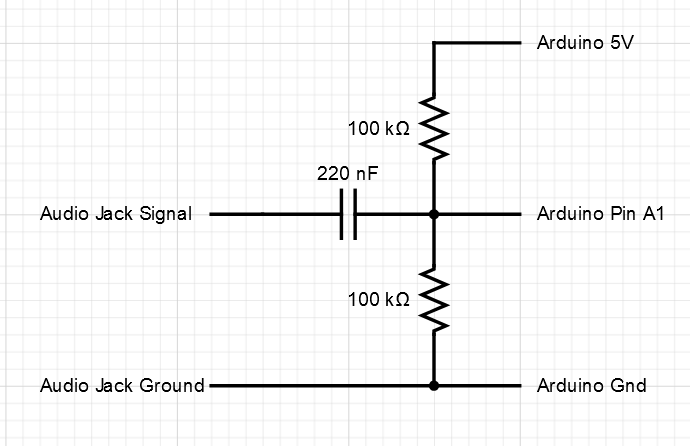
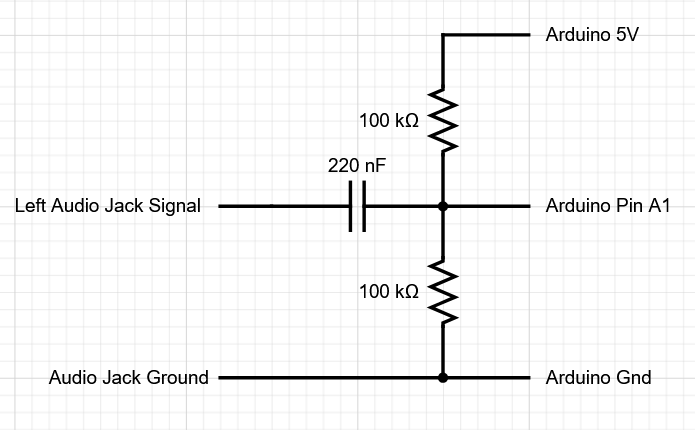
Fixing README with feedback

Changed region(s): [[0.0, 0.0605, 0.9739, 0.907], [0.487, 0.0605, 0.5174, 0.0907], [0.2435, 0.0605, 0.2739, 0.0907]]

diff --git a/README.md b/README.md
@@ -30,12 +30,15 @@ Put each of them together as shown in [this guide](https://github.com/ElementalA
 There are a few sections of wiring: Module Power, Module signals, and Input Reading.
 
 ## Input Reading
-
 This circuit is the most complex out of all of them. While the rest power or signal components where the circuitry is already made, this is a circuit you will have to build yourself. The circuit looks like this:
 
 ![Input circuit, check link below if it doesn't load](https://github.com/ElementalAlly/physical_visualizer/raw/main/docs/InputCircuit.png)
 
 If the image doesn't load, check [this link](https://forum.arduino.cc/t/how-to-read-data-from-audio-jack/458301/3), and exclude R1.
+
+This shifts the input from centering at 0 volts to centering at 2.5 volts, which allows the Arduino to read the entire input from its analog pins.
+
+We use the left audio signal because it's most commonly used as mono.
 
 The best way to get the audio signal and ground are to cut the audio extension cable in half and solder the two halves facing the same direction up on a prototype board, like the one seen on the end of the arduino hat I recommended. Then, solder the matching connections back together, and solder another two wires, one attaching to ground and the other attaching to the left signal. These can then be wired in the way of the diagram, and audio signal can be both received from a computer, and duplicated onto speakers with an audio jack.
 
@@ -53,15 +56,13 @@ Connect each limit switch's ground to the ground of the arduino, as shown in thi
 ![Limit switch ground is connected to the Arduino Ground](https://github.com/ElementalAlly/physical_visualizer/raw/main/docs/LimitSwitchPower.png)
 
 ## Module Signals
-Wire the motor signal wires to the Arduino like this:
-
-If in the code, there's a motor declared like this:
+When a motor is declared like this:
 
 ```
-stepper(a, b, c, d, e)
+stepper stepper1(a, b, c, d, e)
 ```
 
-Wire your motor and limit switch signal like this:
+Wire your motor and limit switch signal of module 1 like this:
 
 ![a to IN1, b to IN2, c to IN3, d to IN4, e to Limit Switch Signal](https://github.com/ElementalAlly/physical_visualizer/raw/main/docs/MotorSignal.png)
 
@@ -73,9 +74,33 @@ stepper(7, 6, 5, 4, 3)
 
 Wire IN1 to 7, IN2 to 6, IN3 to 5, IN4 to 4, and the Limit Switch Signal to 3.
 
-Do this for every module, following what is in the code. Once all the motors are connected, you can move on to the code!
+All the motors' declarations are these:
+
+```
+stepper stepper1(7, 6, 5, 4, 3);
+stepper stepper2(22, 24, 26, 28, 30);
+stepper stepper3(23, 25, 27, 29, 31);
+stepper stepper4(32, 34, 36, 38, 40);
+stepper stepper5(33, 35, 37, 39, 41);
+stepper stepper6(42, 44, 46, 48, 50);
+stepper stepper7(43, 45, 47, 49, 51);
+```
 
 # Coding Tutorial
 Download [Arduino IDE](https://www.arduino.cc/en/software) and open the physical_visualizer/physical_visualizer.ino file in it. Once everything has been wired, upload it and run it! Your modules should go up and down with the music that's played through the audio jack!
 
-For the Approx_FFT Section, credit goes to abhilash_patel for the algorithm, and Klafyvel for some modifications and writing a blog post to show the algorithm compared to others. Klafyvel's article is here: <https://klafyvel.me/blog/articles/fft-arduino/>, and their repo is here: <https://github.com/Klafyvel/AVR-FFT/tree/main>. The original instructable with this code is here: <https://www.instructables.com/ApproxFFT-Fastest-FFT-Function-for-Arduino/>.
+For the Approx_FFT Section, credit goes to abhilash_patel for the algorithm, and Klafyvel for some modifications and writing a blog post to show the algorithm compared to others. abhilash's original instructable with this code is here: <https://www.instructables.com/ApproxFFT-Fastest-FFT-Function-for-Arduino/>. Klafyvel's article is here: <https://klafyvel.me/blog/articles/fft-arduino/>, and their repo is here: <https://github.com/Klafyvel/AVR-FFT/tree/main>.
+
+The sampling frequency, the number of samples per FFT, and the way the code groups the frequency buckets, make the individual bars react to approximately these following frequencies:
+
+```
+stepper1: 60 -> 120
+stepper2: 120 -> 250
+stepper3: 250 -> 500
+stepper4: 500 -> 1000
+stepper5: 1000 -> 2000
+stepper6: 2000 -> 4000
+stepper7: 4000 -> 8000
+```
+
+This is limited to 8000 because of the arduino platform having a cpu that isn't fast enough to sample at a fast enough rate to detect higher frequencies.
